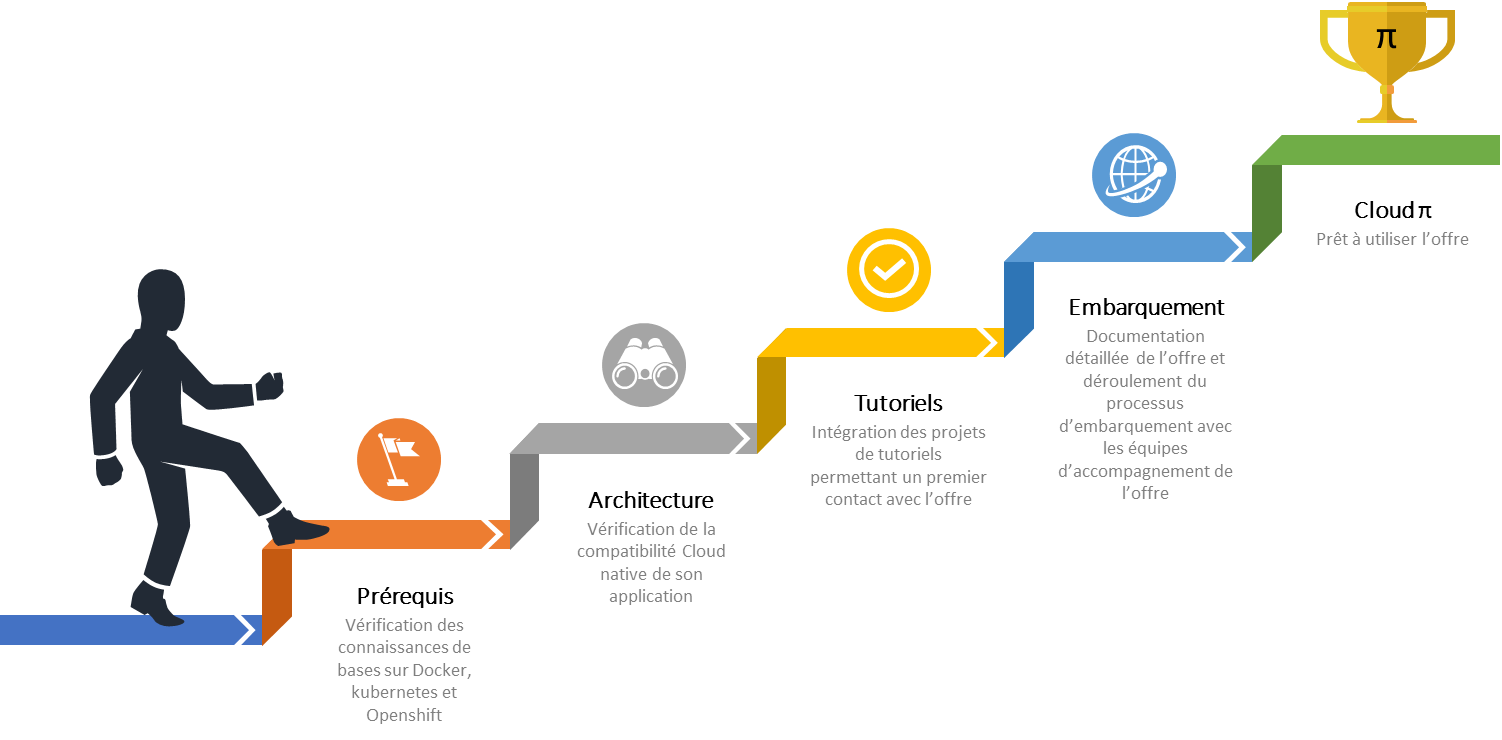
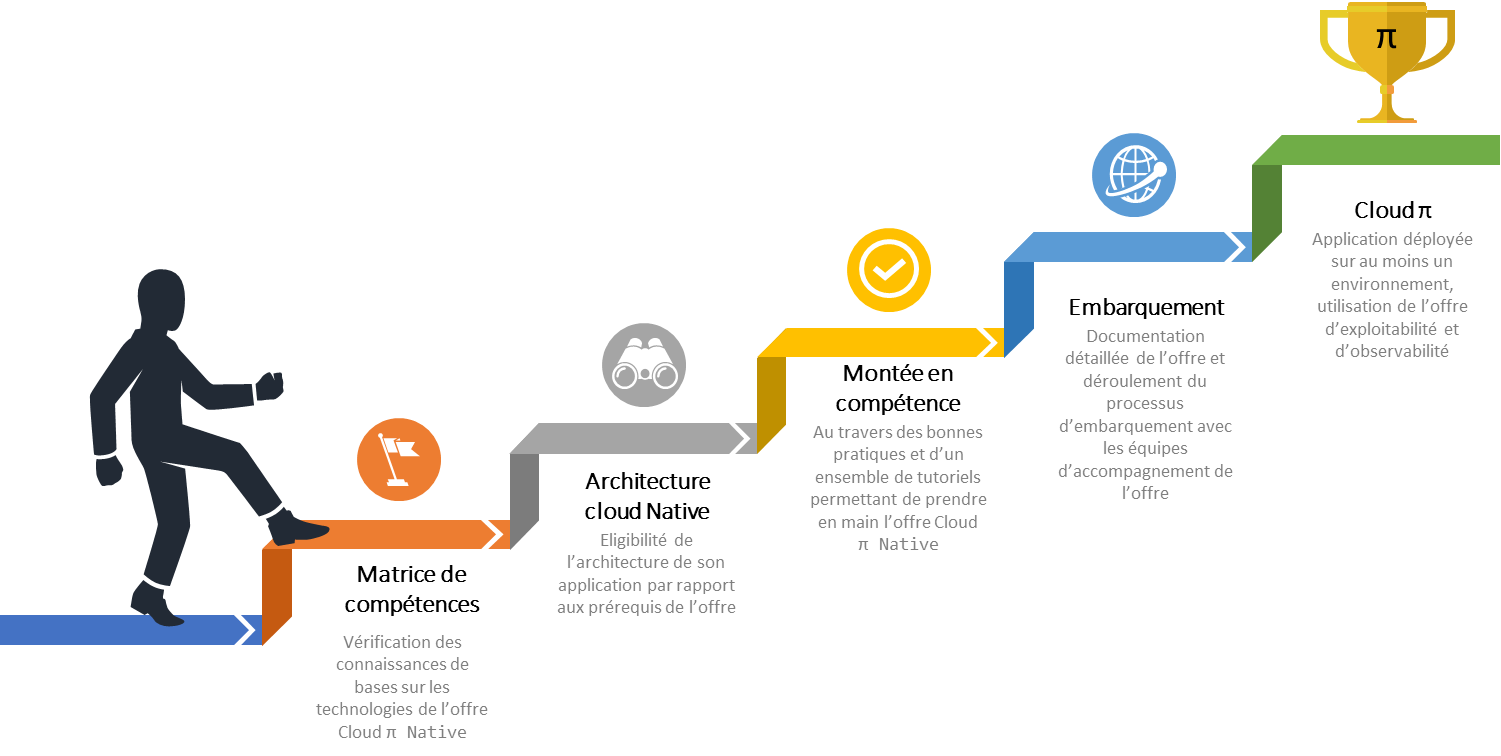
doc : :pencil: doc

diff --git a/README.md b/README.md
@@ -4,7 +4,7 @@
 
 ## L'offre
 
-### Présentation
+### Présentation (WIP)
 
 Avec l’adoption de la doctrine « Cloud au centre », le Gouvernement Français fait du Cloud un prérequis pour tout nouveau projet numérique au sein de l’État ou refonte substantielle de l’architecture applicative existante.
 
@@ -18,17 +18,33 @@ L'offre Cloud π Native, portée par le Ministère de l'Intérieur et des Outre-
 
   - [Gestionnaire de sources](produits/gitlab.md) applicatives
   - Outil de gestion de la [qualité](produits/sonarqube.md) statique du code (SAST) et dynamique (DAST)
-  - Orchestrateur de [construction](produits/gitlab.md) d'artefacts
+  - Orchestrateur de [construction](produits/gitlab.md) d'artefacts (Intégration continue)
   - [Entrepot d'artefacts](produits/artefacts.md) et d'images Docker
   - Gestionnaire de [secrets](produits/vault.md) des chaines IC/DC
-  - [Déploiement automatisée](produits/gitops.md) des images Docker sur les infrastructures du ministère ou à l'extérieur du ministère en suivant les principes GitOps
-  - [Observabilité et exploitation](exploitation.md) applications déployées : accès aux logs, métriques techniques et applicatives, procédures standard d'exploitation
+  - Outil de [déploiement automatisé](produits/gitops.md) des images Docker sur les infrastructures du ministère ou à l'extérieur du ministère en suivant les principes GitOps (Déploiement continue)
+  - Hébergement des [environnements](gestion-environnements.md) applicatifs de l'intégration à la production
+  - Mise à disposition d'outil d'[observabilité et exploitabilité](exploitation.md) des applications déployées sur l'offre : accès aux logs, métriques techniques et applicatives, procédures standard d'exploitation
 
-### SLA de l'offre
+### SLA de l'offre (WIP)
 
-TODO
+L'offre Cloud π Native peut se séparer en plusieurs grands services ayant des contraintes de SLA différentes :
 
-## Accompagnement 
+  - Outils de construction applicative (Intégration continue) permettant de construire un package applicatif à partir des sources
+  - Outils de déploiement (Déploiement continue) permettant de déployer / mettre à jour une application sur les différents environnements de l'offre
+  - Les applications qui sont déployées sur l'offre. Chacune de ses applications peuvent également avoir un niveau de criticité différent (par exemple l'environnement de production a un besoin de SLA plus fort que l'environnement de recette)
+
+| Service | DIMA* | PDMA**
+| --- | --- | --- |
+| Construction | 8 heures | 24h (backup nocturne quotidien) |
+| Déploiement | 8 heures | 24h (backup nocturne quotidien) |
+| Run des applications | 6 heures | 24h (backup nocturne quotidien). Possibilité d'ajouter un backup applicatif plus fréquent (voir notre [FAQ](faq.md)) |
+
+
+*DIMA : Durée d'interruption maximale autorisée (en heures ouvrés)
+**PDMA : Perte de données maximale admissible (en heures ouvrés)
+
+
+## Accompagnement  (WIP)
 
 Un volet [accompagnement](accompagnement.md) des projets directement par les équipes de l'offre Cloud π Native permet d'utiliser l'offre dans des conditions optimale. Cet accompagnement fait partie du parcours technique d'embarquement sur l'offre Cloud π Native. 
 
@@ -38,20 +54,24 @@ Un parcours technique d'apprentissage permettant de valider les prérequis et d'
 
 ![parcours_apprentissage](img/parcours_apprentissage.png)
 
-  - Etape 1 : Vérification des [prérequis](prerequisites.md) sur Docker, Kubernetes, Openshift et les et [bonnes pratiques](bonnes-pratiques.md)  Cloud π Native
-  - Etape 2 : Vérification de la compatibilité de son application avec le modèle Cloud Native Application et adaptations éventuelles. Les équipes Cloud π Native [accompagnent](accompagnement.md) les équipes projets sur cette étape afin d'apporter conseils et qualification des architectures et maturité technique des équipes. 
-  - Etape 3 : Prise de connaissance via une série de tutoriels [tutoriels](tutorials.md) afin de faire ses premiers pas avec l'offre
+  - Etape 1 : [Matrice de compétences](matrice-compétences.md) des technologies à connaitre pour utiliser l'offre Cloud π Native 
+  - Etape 2 : Vérification de l'éligibilité de son application avec le modèle Cloud Native Application [prérequis](prerequisites.md) technique liés à l'offre. Les équipes Cloud π Native [accompagnent](accompagnement.md) les équipes projets sur cette étape afin d'apporter conseils et qualification des architectures et maturité technique des équipes. 
+  - Etape 3 : Prise de connaissance des [bonnes pratiques](bonnes-pratiques.md) et expérimentation avec une série de tutoriels [tutoriels](tutorials.md) afin de faire ses premiers pas avec l'offre
   - Etape 4 : [Embarquement](getting-started.md) de l'application sur l'offre
-  - Etape 5 : Félicitation ! Vous êtes maintenant un utilisateur de la plateforme Cloud π Native et votre application peut passer en production via les principes d'[exploitation](exploitation.md) de l'offre.
+  - Etape 5 : Félicitation ! Vous êtes maintenant un utilisateur de la plateforme Cloud π Native et votre application peut passer en production via les principes d'[exploitation et observabilité](exploitation.md) de vos projets.
 
 
 A tout moment, vous pouvez consulter la [documentation détaillée](description-plateforme.md) de la plateforme Cloud π Native, son architecture et les services proposés
 
 Enfin notre [FAQ](faq.md) permet de lister les questions fréquentes de nos clients.
  
-## Notre roadmap
+## Notre roadmap (WIP)
 
-L'offre Cloud π Native est en cours de construction. Notre [feuille de route](roadmap.md) est accessible permettant de donner de la visibilité sur les prochaines fonctionnalités. 
+L'offre Cloud π Native est en cours de construction. Notre [feuille de route détaillée](roadmap.md) est accessible permettant de donner de la visibilité sur les prochaines fonctionnalités. 
+
+Voici les grandes fonctionnalités prévus dans les prochaines semaines :
+ - Gestion des secrets applicatifs
+ - TODO
 
 ## Contact
 

diff --git a/prerequisites.md b/prerequisites.md
@@ -2,6 +2,18 @@ Retour à [l'accueil](README.md)
 
 # Prérequis
 
+## Critère d'éligibilité Cloud π Native
+
+Voici des critère permettant de déterminer si votre  application est éligible à l'offre Cloud π Native. L'équipe projet Cloud π Native vous accompagne sur cette étape afin de trouver les solutions d'adaptation de vos application:
+  - Les applications doivent être délivrée sous forme de containers et donc sur une suche d'OS Linux. Les applications nécessitant un OS Windows ne sont pas éligibles à l'offre.
+  - Les applications doivent être **sans état** et partir  du principe qu'un composant applicatif (pod) peut être détruit à tout moment. Le stockage persistent de données est portée **principalement** par les bases de données. En cas de maintient de session applicative, un déport vers un composant de type Redis est nécessaire.
+  - La configuration de l'application se fait par son environnement (principalement par des variables d'environnements). Seuls ces éléments change entre deux environnements : il s'agit de la même image déployée avec un configuration différente (par de reconstruction pour passer d'un environnement à un autre) 
+  - Les images déployée doivent être **rootless**
+  - Le FileSystem des images doit être en lecture seule
+  - Afin d'accéder aux composants externes à l'application déployée sur Cloud π Native, par exemple des API, des demandes d'ouvertures de flux doivent être explicitement réalisée (voir la procédure TODO) 
+  - Vérifier les contraintes de nom DNS : les applications doivent-elles obligatoirement être en *.gouv.fr ou *.interieur.gouv.fr ?
+  - Exigences au sens CCT
+
 ## Prérequis orga
 
 - Avoir un compte dans le SSO de Cloud π Native (à demander à l'équipe DSO).
